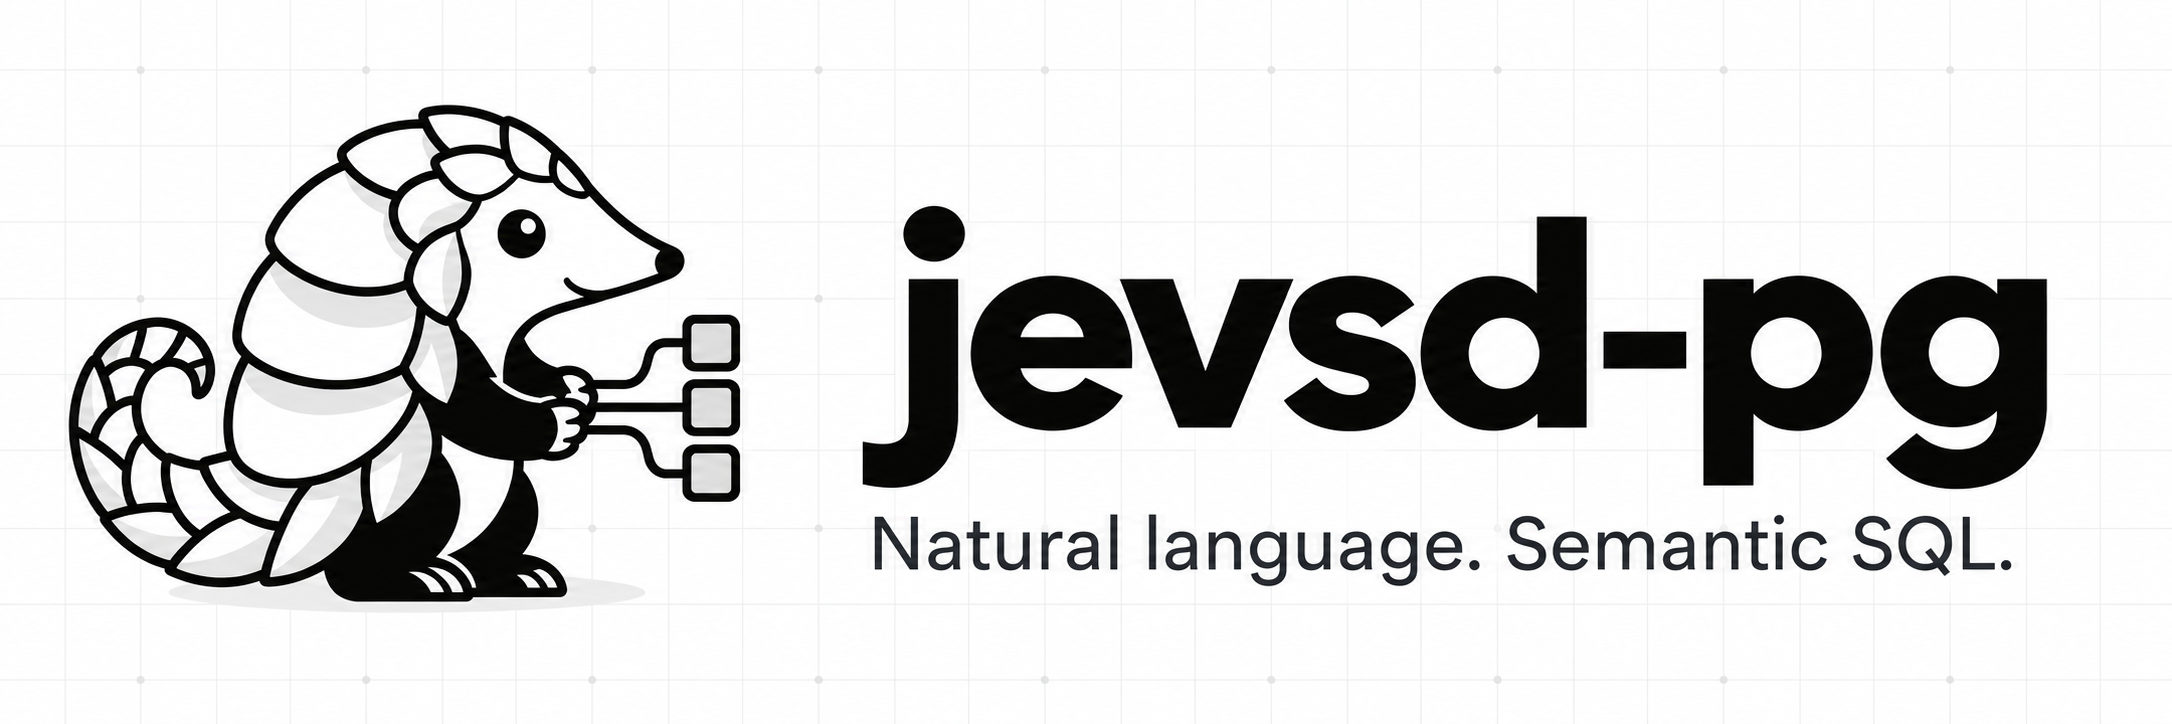
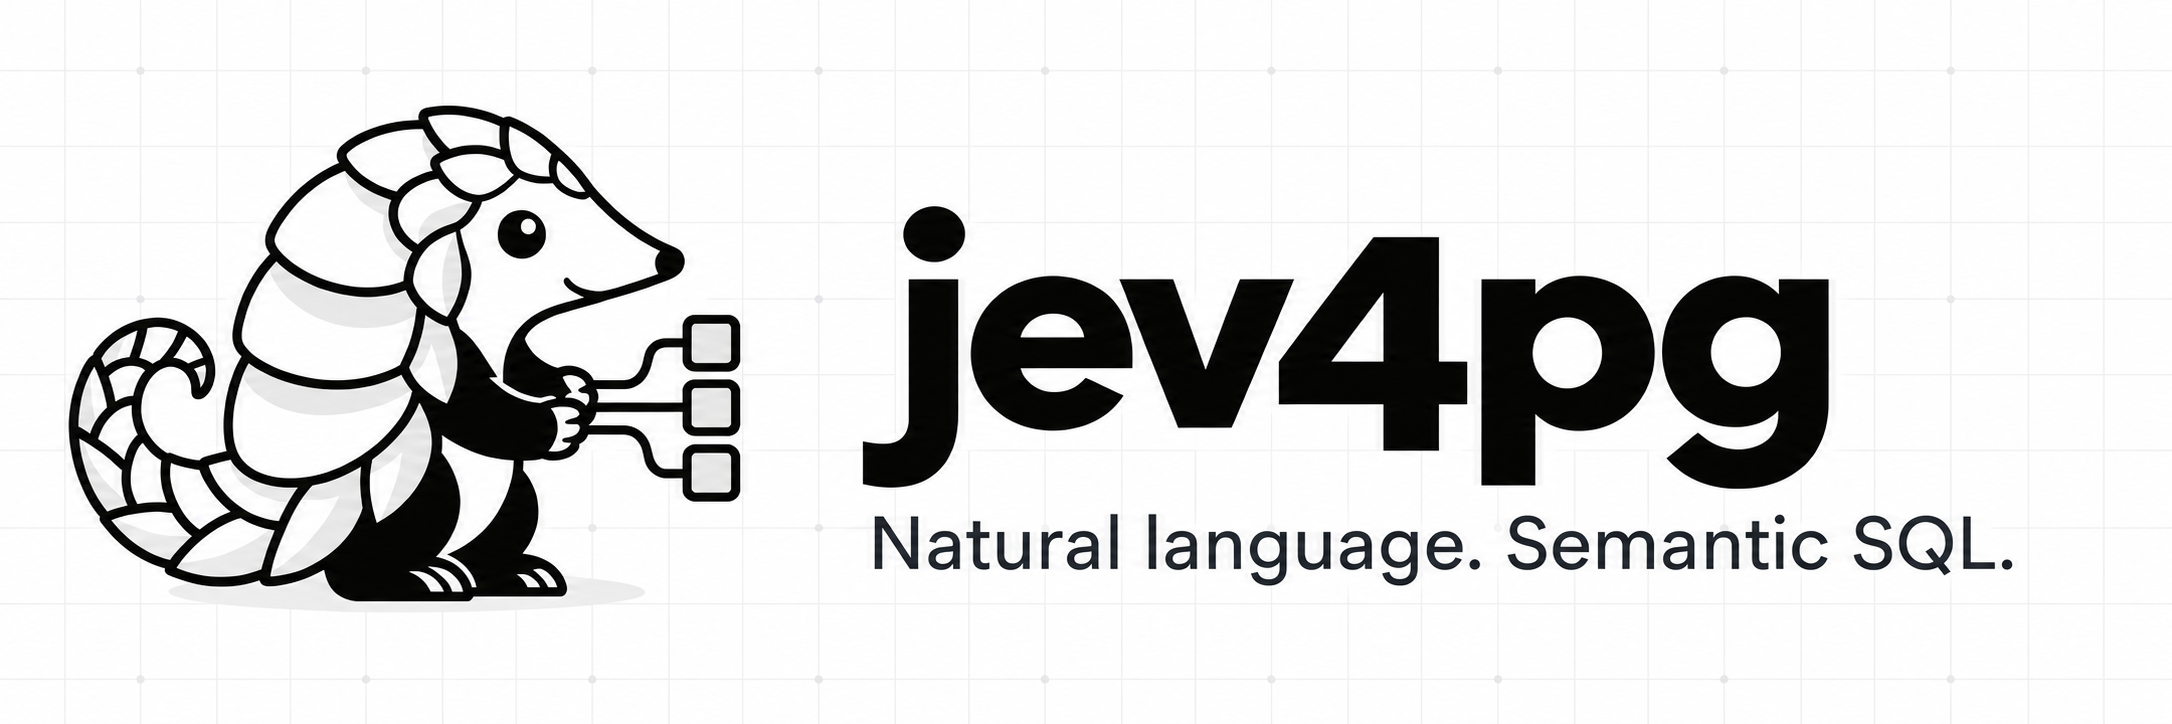
Rename project to jev4pg, including website links and product media

diff --git a/sdd/web/explore.html b/sdd/web/explore.html
@@ -3,7 +3,7 @@
   <head>
     <meta charset="utf-8" />
     <meta name="viewport" content="width=device-width,initial-scale=1" />
-    <title>jevsd-pg · Database workspace</title>
+    <title>jev4pg · Database workspace</title>
     <link rel="stylesheet" href="/ask-assets/explore.css" />
     <script src="/ask-assets/locales.js" defer></script>
     <script src="/ask-assets/explore.js" defer></script>
@@ -15,11 +15,11 @@
   </head>
   <body>
     <header class="topbar">
-      <a id="brand-home" class="brand" href="/ask" aria-label="jevsd-pg">
+      <a id="brand-home" class="brand" href="/ask" aria-label="jev4pg">
         <span class="mark" aria-hidden="true"
           ><i></i><i></i><i></i><i></i><i></i><i></i><i></i><i></i><i></i
         ></span>
-        <span class="brand-name">jevsd-pg</span
+        <span class="brand-name">jev4pg</span
         ><span class="brand-label" data-i18n="brand">DATABASE</span>
       </a>
       <nav class="topnav" data-i18n-aria-label="workspace">
@@ -430,7 +430,7 @@ Run a query to inspect its plan and evidence.</pre
         <footer>
           <span data-i18n="footer"
             >Read results directly. Preview and review changes before committing.</span
-          ><span class="footer-mark" aria-hidden="true">jevsd-pg</span>
+          ><span class="footer-mark" aria-hidden="true">jev4pg</span>
         </footer>
       </main>
     </div>

diff --git a/sdd/web/locales.js b/sdd/web/locales.js
@@ -219,7 +219,7 @@ const messages = {
     outer_max: "Largest group value",
     outer_sum: "Sum of group values",
 
-    title: "jevsd-pg · Database workspace",
+    title: "jev4pg · Database workspace",
     brand: "DATABASE",
     workspace: "Workspace",
     api: "API reference",
@@ -580,7 +580,7 @@ const messages = {
     outer_max: "各组结果的最大值",
     outer_sum: "各组结果之和",
 
-    title: "jevsd-pg · 数据库工作区",
+    title: "jev4pg · 数据库工作区",
     brand: "数据库",
     workspace: "工作区",
     api: "接口文档",

diff --git a/sdd/cli.py b/sdd/cli.py
@@ -8,8 +8,8 @@ from . import __version__
 
 
 def main():
-    parser = argparse.ArgumentParser(description="jevsd-pg database workspace")
-    parser.add_argument("--version", action="version", version=f"jevsd-pg {__version__}")
+    parser = argparse.ArgumentParser(description="jev4pg database workspace")
+    parser.add_argument("--version", action="version", version=f"jev4pg {__version__}")
     sub = parser.add_subparsers(dest="command", required=True)
     sub.add_parser("init")
     sub.add_parser("demo")

diff --git a/tests/test_providers.py b/tests/test_providers.py
@@ -382,7 +382,7 @@ def test_serve_does_not_load_a_local_model_before_app_start(monkeypatch):
     from sdd import cli
 
     calls = []
-    monkeypatch.setattr(sys, "argv", ["jevsd-pg", "serve"])
+    monkeypatch.setattr(sys, "argv", ["jev4pg", "serve"])
     monkeypatch.setattr(cli, "runtime", lambda: pytest.fail("Model loaded outside the app factory"))
     monkeypatch.setattr(uvicorn, "run", lambda *args, **kwargs: calls.append((args, kwargs)))
     cli.main()

diff --git a/sdd/api.py b/sdd/api.py
@@ -130,7 +130,7 @@ def create_app(executor=None, tokens=None):
                 await asyncio.to_thread(worker.join, 3)
 
     app = FastAPI(
-        title="jevsd-pg",
+        title="jev4pg",
         version=__version__,
         lifespan=lifespan,
         description="Query, inspect evidence, review decisions, and govern reusable concepts. Tenant is bound to the bearer token.",

diff --git a/tests/test_deployment_config.py b/tests/test_deployment_config.py
@@ -98,4 +98,4 @@ def test_version_is_available_without_database_configuration():
         text=True,
         check=True,
     )
-    assert result.stdout.strip() == "jevsd-pg " + __version__
+    assert result.stdout.strip() == "jev4pg " + __version__

diff --git a/scripts/migrate_generic.py b/scripts/migrate_generic.py
@@ -1,4 +1,4 @@
-"""Compatibility entry point; new deployments should use jevsd-pg migrate."""
+"""Compatibility entry point; new deployments should use jev4pg migrate."""
 
 import os
 from sdd.bootstrap import migrate

diff --git a/README.md b/README.md
@@ -1,20 +1,20 @@
 <p align="center">
-  <img src="docs/assets/readme-banner.png" width="1000" alt="jevsd-pg: Natural language. Semantic SQL. Pangolin mascot with three parallel data paths." />
+  <img src="docs/assets/readme-banner.png?v=jev4pg" width="1000" alt="jev4pg: Natural language. Semantic SQL. Pangolin mascot with three parallel data paths." />
 </p>
 
-<h1 align="center">jevsd-pg</h1>
+<h1 align="center">jev4pg</h1>
 
 <p align="center">
   <strong>Natural language to SQL and semantic operators for PostgreSQL</strong>
 </p>
 
 <p align="center">
-  <a href="https://github.com/Sheltercosmo/jevsd-pg/releases/tag/v0.6.0"><img src="https://img.shields.io/badge/release-0.6.0-18181b?style=flat-square&amp;labelColor=52525b" alt="Release 0.6.0" /></a>
+  <a href="https://github.com/Sheltercosmo/jev4pg/releases/tag/v0.6.0"><img src="https://img.shields.io/badge/release-0.6.0-18181b?style=flat-square&amp;labelColor=52525b" alt="Release 0.6.0" /></a>
   <a href="LICENSE"><img src="https://img.shields.io/badge/license-Apache_2.0-18181b?style=flat-square&amp;labelColor=52525b" alt="Apache 2.0 license" /></a>
 </p>
 
 <p align="center">
-  <a href="https://jevsdpg.com">Website</a> ·
+  <a href="https://jev4pg.com">Website</a> ·
   <a href="docs/INSTALLATION.md">Installation</a> ·
   <a href="docs/USER_GUIDE.md">User guide</a> ·
   <a href="docs/zh/USER_GUIDE.md">简体中文</a> ·
@@ -22,14 +22,14 @@
   <a href="docs/README.md">Documentation</a>
 </p>
 
-jevsd-pg is an open-source semantic database built on PostgreSQL. It combines natural language to SQL (text-to-SQL) in English and Simplified Chinese with 41 JEV operators for filtering, extraction, ranking and verification, bringing structured records and free-form text into one query workflow. PostgreSQL handles joins, calculations and transactions; JEV evaluates meaning through typed decisions. Useful definitions and corrections become reviewed, reusable database features.
+jev4pg is an open-source semantic database built on PostgreSQL. It combines natural language to SQL (text-to-SQL) in English and Simplified Chinese with 41 JEV operators for filtering, extraction, ranking and verification, bringing structured records and free-form text into one query workflow. PostgreSQL handles joins, calculations and transactions; JEV evaluates meaning through typed decisions. Useful definitions and corrections become reviewed, reusable database features.
 
 The execution model makes each model call count: independent semantic tasks run in parallel, questions sharing context are batched, and compatible evidence is reused. Choose JEV planning or combine LLM plan generation with JEV context selection and review. Inspect generated SQL and refine previous queries through the web workspace, HTTP API or SQL clients. A shared provider interface supports compatible hosted services and local adapters.
 
-Visit [jevsdpg.com](https://jevsdpg.com) for interactive examples of natural-language queries, parallel execution and probability embeddings.
+Visit [jev4pg.com](https://jev4pg.com) for interactive examples of natural-language queries, parallel execution and probability embeddings.
 
 <p align="center">
-  <img src="docs/assets/product-tour.gif?v=94ace4f0" width="800" alt="Animated product tour: natural-language SQL, semantic filtering, text extraction, parallel JEV stages and probability embeddings." />
+  <img src="docs/assets/product-tour.gif?v=b87ec970" width="800" alt="Animated product tour: natural-language SQL, semantic filtering, text extraction, parallel JEV stages and probability embeddings." />
 </p>
 
 ## What you can build
@@ -46,7 +46,7 @@ Visit [jevsdpg.com](https://jevsdpg.com) for interactive examples of natural-lan
 
 The self-developing layer stores definitions, evidence and corrections as reusable database features. New definitions require review before promotion. The [provider interface](docs/PROVIDERS.md) supports TypeSafe, compatible hosted endpoints and local adapters.
 
-Previously published as **JevSDSQL**; the current repository and package are named **jevsd-pg**.
+Previously published as **JevSDSQL** and **jevsd-pg**; the current project and development package are named **jev4pg**.
 
 ## Choose an installation
 
@@ -62,8 +62,8 @@ Use a release tag for a fixed deployment and `main` to evaluate ongoing developm
 To start the released application with Python 3.11+ and Docker Compose v2:
 
 ```bash
-git clone --branch v0.6.0 https://github.com/Sheltercosmo/jevsd-pg.git
-cd jevsd-pg
+git clone --branch v0.6.0 https://github.com/Sheltercosmo/jev4pg.git
+cd jev4pg
 python deploy/configure.py
 docker compose build
 docker compose up -d --wait

diff --git a/docs/INSTALLATION.md b/docs/INSTALLATION.md
@@ -1,5 +1,7 @@
 # Installation
 
+The project and current Python distribution are named **jev4pg**. The `jev4pg` command is available in development builds; the `jevsd-pg` alias remains supported. When using the unchanged `v0.6.0` release, use `jevsd-pg` in place of `jev4pg`. The Python import namespace `sdd`, PostgreSQL extension `jevsd_pg`, configuration keys, and Compose project/volume identities retain their existing names so upgrades preserve installed databases.
+
 Choose the application deployment or the native execution preview:
 
 | Path | Requirements | Execution |
@@ -51,22 +53,22 @@ Copy `.env.example` to `.env` and configure the runtime database URL, provider a
 For the SQL interface, export the packaged extension files:
 
 ```bash
-jevsd-pg extension-files ./extension-files
+jev4pg extension-files ./extension-files
 ```
 
 On the PostgreSQL server, copy the resulting `.control` and `.sql` files into the directory printed by `pg_config --sharedir`, under `extension/`. Then run:
 
 ```bash
-jevsd-pg migrate --sql-interface
+jev4pg migrate --sql-interface
 ```
 
-This creates the restricted runtime login, application tables, tenant policies, immutable evidence guards and `CREATE EXTENSION jevsd_pg`. It runs in one transaction and can be repeated. Existing runtime passwords are preserved. Managed PostgreSQL services that disallow custom extension files can use `jevsd-pg migrate` for the HTTP interface; the SQL interface requires extension installation access.
+This creates the restricted runtime login, application tables, tenant policies, immutable evidence guards and `CREATE EXTENSION jevsd_pg`. It runs in one transaction and can be repeated. Existing runtime passwords are preserved. Managed PostgreSQL services that disallow custom extension files can use `jev4pg migrate` for the HTTP interface; the SQL interface requires extension installation access.
 
 Remove administrator credentials from the service environment. Set `SDD_ENV=production`, `SDD_SQL_INTERFACE=1`, and start the services under your process supervisor:
 
 ```bash
-jevsd-pg serve --host 127.0.0.1 --port 8000
-jevsd-pg sql-worker --concurrency 2 --heartbeat-file /tmp/jev-sql-worker.heartbeat
+jev4pg serve --host 127.0.0.1 --port 8000
+jev4pg sql-worker --concurrency 2 --heartbeat-file /tmp/jev-sql-worker.heartbeat
 ```
 
 Run these as separate processes. On Windows choose a writable heartbeat path, such as `.runtime/sql-worker.heartbeat`. Production startup rejects SQLite, administrative runtime roles, missing migration state and invalid API token mappings. Use a separate PostgreSQL login for each SQL client; follow [SQL access setup](POSTGRESQL_INTERFACE.md#grant-access).
@@ -78,7 +80,7 @@ Use a checkout of `main`. The [native Compose guide](NATIVE_DEPLOYMENT.md) build
 For application integration, install Python from that same checkout and run:
 
 ```bash
-jevsd-pg migrate --native-interface
+jev4pg migrate --native-interface
 ```
 
 Set `SDD_SEMANTIC_ENGINE=native` in the application environment and start the service. This enables supported semantic reads through `/ask` and `/data/sql`. It does not switch all operators to Rust. Maintained semantic features and semantic mutation review require the default Python engine. The [roadmap](IMPLEMENTATION_PLAN.md) lists remaining release work; use a separate database for preview evaluation.
@@ -121,7 +123,7 @@ docker compose up -d --wait
 
 The current migration is additive and preserves source data and evidence. It does not rotate passwords. Never run two migration versions against the same database at once. Before adopting this deployment on an existing installation, test migration and restore on a database copy. Do not repoint Compose at an unrelated database volume.
 
-On a development build, check the installed application version with `jevsd-pg --version`, or `docker compose exec app jevsd-pg --version`. `/health` and the OpenAPI document report the same application version. Inspect database versions as an administrator:
+On a development build, check the installed application version with `jev4pg --version`, or `docker compose exec app jev4pg --version`. `/health` and the OpenAPI document report the same application version. Inspect database versions as an administrator:
 
 ```sql
 SELECT version FROM sdd_schema_version;

diff --git a/docs/EXISTING_DATA.md b/docs/EXISTING_DATA.md
@@ -7,10 +7,10 @@ Development feature. An attachment registers an existing relation without copyin
 Run the matching migration first:
 
 ```sh
-jevsd-pg migrate
+jev4pg migrate
 ```
 
-For native execution, install the Rust extension and use `jevsd-pg migrate --native-interface`. See [native setup](../native/README.md).
+For native execution, install the Rust extension and use `jev4pg migrate --native-interface`. See [native setup](../native/README.md).
 
 A database administrator grants source access:
 
@@ -22,13 +22,13 @@ GRANT SELECT ON business.messages TO sdd_app;
 From the deployment environment, using its runtime database configuration:
 
 ```sh
-jevsd-pg attach messages --tenant team --schema business --table messages
+jev4pg attach messages --tenant team --schema business --table messages
 ```
 
 To select columns and supply a description:
 
 ```sh
-jevsd-pg attach messages --tenant team --schema business --table messages \
+jev4pg attach messages --tenant team --schema business --table messages \
   --column id --column body --column received_at \
   --description "Customer messages and their arrival times"
 ```
@@ -38,7 +38,7 @@ Choose another logical name if `messages` is already registered. Attachment is a
 The dataset appears in `/datasets` and the workspace selector. Query its logical name through `/data/sql`, `/ask` or the CLI:
 
 ```sh
-jevsd-pg ask "How many messages arrived this month?" --tenant team --dataset messages
+jev4pg ask "How many messages arrived this month?" --tenant team --dataset messages
 ```
 
 The SDK equivalent is:
@@ -75,7 +75,7 @@ SELECT id, body, received_at FROM business.messages;
 GRANT SELECT ON business.public_messages TO sdd_app;
 ```
 
-The runtime login also needs access to the underlying invoker-view sources. Materialized views expose their stored snapshot; jevsd-pg does not refresh them or reinterpret their original source policies. Foreign tables and custom types require an explicit supported integration or a local typed representation.
+The runtime login also needs access to the underlying invoker-view sources. Materialized views expose their stored snapshot; jev4pg does not refresh them or reinterpret their original source policies. Foreign tables and custom types require an explicit supported integration or a local typed representation.
 
 Execution verifies relation identity, selected column contracts, keys, comments and view definitions before semantic dispatch. Changed contracts stop the query. Unregistered added columns do not enter the catalog. View definitions are retained as fingerprints rather than copied SQL text.
 
@@ -84,7 +84,7 @@ Table locks precede the query's repeatable-read snapshot. Views and materialized
 ## Detach or accept a changed schema
 
 ```sh
-jevsd-pg detach messages --tenant team
+jev4pg detach messages --tenant team
 ```
 
 Detaching removes the dataset from the active catalog and preserves its source relation. Historical results and evidence remain stored. Register again to accept a changed schema; the new dataset identity prevents old planning approvals from silently applying to it. Historical SQL remains inspectable, while execution resolves against the current authorized catalog.

diff --git a/docs/DEPENDENCIES.md b/docs/DEPENDENCIES.md
@@ -1,6 +1,6 @@
 # Dependencies
 
-jevsd-pg uses these libraries for storage, API handling and SQL validation. Python versions are recorded in `requirements.lock.txt`, with supported ranges in `pyproject.toml`. The native Rust workspace pins its dependencies in `native/Cargo.lock`.
+jev4pg uses these libraries for storage, API handling and SQL validation. Python versions are recorded in `requirements.lock.txt`, with supported ranges in `pyproject.toml`. The native Rust workspace pins its dependencies in `native/Cargo.lock`.
 
 | Component | Purpose | Upstream |
 | --- | --- | --- |
@@ -15,6 +15,6 @@ jevsd-pg uses these libraries for storage, API handling and SQL validation. Pyth
 | HTTPX | Provider and client HTTP requests | [encode/httpx](https://github.com/encode/httpx) |
 | pytest, Ruff and Playwright | Tests, static checks and browser verification | [pytest](https://github.com/pytest-dev/pytest), [Ruff](https://github.com/astral-sh/ruff), [Playwright](https://github.com/microsoft/playwright-python) |
 
-Each dependency retains its upstream license. The project's Apache 2.0 license applies to original jevsd-pg code and documentation.
+Each dependency retains its upstream license. The project's Apache 2.0 license applies to original jev4pg code and documentation.
 
 TypeSafe is the default JEV service. Compatible third-party endpoints and local Python model adapters can replace it; see [provider setup](PROVIDERS.md). Credentials are configured on the server. Model weights are not distributed here. Hybrid mode uses a separately configured LLM through the supported API or local CLI transport. Service terms and charges are separate from this project's license.

diff --git a/docs/zh/USER_GUIDE.md b/docs/zh/USER_GUIDE.md
@@ -61,7 +61,7 @@
 
 开发预览版提供 [Rust 原生扩展](../../native/README.md)。管理员可使用[原生容器部署](../NATIVE_DEPLOYMENT.md)构建扩展、配置证据存储并启用原生执行，也可在现有服务器上单独安装。启用后，受支持的语义 SQL 可以处理派生关系和条件分支；规划、历史查询和人工确认的操作方式不变。默认部署仍使用 Python 语义运行时。这些部署参考目前使用英文。
 
-已发布的应用版本为 0.6.0，当前开发版为 0.7.0.dev0，原生扩展版本为 0.2.0。在开发版中，运行 `jevsd-pg --version` 或查看 `/health` 可确认应用版本。原生预览功能尚未包含在 0.6.0 发布包中。
+已发布的应用版本为 0.6.0，当前开发版为 0.7.0.dev0，原生扩展版本为 0.2.0。在开发版中，运行 `jev4pg --version` 或查看 `/health` 可确认应用版本。原生预览功能尚未包含在 0.6.0 发布包中。
 
 原生嵌入目前通过 SQL 使用。系统针对同一组问题生成完整的答案概率矩阵和向量，保留问题含义与模型版本；兼容向量的距离计算在本地完成，无需再次调用模型。未执行的判断保留为空，不会转换为零概率。具体接口见[嵌入指南](../NATIVE_EMBEDDINGS.md)，该开发者参考使用英文。
 
